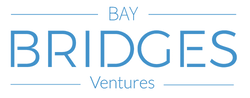
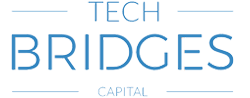
Tech Bridges Ventures

diff --git a/index_pt.html b/index_pt.html
@@ -8,14 +8,14 @@
     <meta name="robots" content="noodp,noydir" />
 
     <!-- Page Title -->
-    <title>Bridges Ventures</title>
+    <title>Tech Bridges Capital</title>
 
-    <meta name="description" content="Bridges Ventures investe em pessoas excepcionais com paixão para resolver problemas complexos e inovar em mercados de alto crescimento. Juntos podemos mudar o mundo." />
+    <meta name="description" content="Tech Bridges Capital investe em pessoas excepcionais com paixão para resolver problemas complexos e inovar em mercados de alto crescimento. Juntos podemos mudar o mundo." />
     <meta name="keywords" content="capital de risco, risco, capital, semente, investimento, inovação, start-up, iberia, espanha, portugal, silicon valley" />
 
     <meta name='twitter:card' content="summary_large_image">
-    <meta name='twitter:title' content="Bridges Ventures">
-    <meta name='twitter:description' content="Bridges Ventures invests in exceptional individuals with passion for solving hard challenges and bringing disruptive innovation to high growth markets. Let's change the world together.">
+    <meta name='twitter:title' content="Tech Bridges Capital">
+    <meta name='twitter:description' content="Tech Bridges Capital invests in exceptional individuals with passion for solving hard challenges and bringing disruptive innovation to high growth markets. Let's change the world together.">
     <meta name='twitter:site' content="@Bridges_VC">
     <meta name='twitter:creator' content="@AgoraEAFI">
     <meta name='twitter:image' content="http://bridges.vc/bridges.jpg">
@@ -326,11 +326,13 @@
                         <use xmlns:xlink="http://www.w3.org/1999/xlink" xlink:href="#facebook"></use>
                     </svg>
                 </a></li>
+                <!--
                 <li><a href="https://www.instagram.com/bridges_vc" target="_blank">
                     <svg>
                         <use xmlns:xlink="http://www.w3.org/1999/xlink" xlink:href="#instagram"></use>
                     </svg>
                 </a></li>
+                -->
             </ul>
         </div>
     </div>
@@ -378,11 +380,13 @@
                     <use xmlns:xlink="http://www.w3.org/1999/xlink" xlink:href="#facebook"></use>
                 </svg>
             </a></li>
+            <!--
             <li><a href="https://www.instagram.com/bridges_vc" target="_blank">
                 <svg>
                     <use xmlns:xlink="http://www.w3.org/1999/xlink" xlink:href="#instagram"></use>
                 </svg>
             </a></li>
+            -->
         </ul>
     </div>
 </nav>
@@ -485,7 +489,7 @@
                         </p>
                         <p>
                             Estamos continuamente à procura da próxima geração de empresas transformadoras,
-                            por isso, se quiser explorar como a Bridges Ventures pode fazer você pisar no acelerador
+                            por isso, se quiser explorar como a Tech Bridges Capital pode fazer você pisar no acelerador
                             com a sua start-up disruptiva <a href="#contact"><b><u>envie-nos uma mensagem aqui</u></b></a>
                         </p>
                     </div>
@@ -507,7 +511,7 @@
                     <h1 class="done">Para Investidores</h1>
                     <div class="done">
                         <p>
-                            Nossa equipe de Bridges Ventures tem <b>acesso privilegiado</b> a um fluxo de oportunidades de investimento em empresas disruptivas de alta qualidade
+                            Nossa equipe de ventures tem <b>acesso privilegiado</b> a um fluxo de oportunidades de investimento em empresas disruptivas de alta qualidade
                         </p>
 
                         <p>
@@ -523,7 +527,7 @@
                         </p>
 
                         <p>
-                            Os Sócios Gerentes da Bridges Ventures possuem ampla experiência real como fundadores
+                            Os Sócios Gerentes da Tech Bridges Capital possuem ampla experiência real como fundadores
                             executivos, investidores e mentores nas indústrias e tecnologias alvo
                         </p>
 
@@ -641,7 +645,7 @@
 
                 <div class="fix-7-12">
                     <div class="ae-1">
-                        <p class="hero opaque">Você quer fazer parte da Bridges Ventures?</p>
+                        <p class="hero opaque">Você quer fazer parte da Tech Bridges Capital?</p>
                         <p class="hero opaque">Você tem o que é necessário para ser um empresário, um investidor ou um mentor?</p>
                     <a href="mailto:info@bridges.vc" class="margin-top-2 button button-93 big blue ae-2">Escreva para info@bridges.vc</a>
                     <!--div class="ae-3 margin-top-2"><p class="phone-93 opaque">or call<a class="bold block opaque" href="tel:+14158129409">+1 (415) 812-9409</a></p></div-->

diff --git a/index.html b/index.html
@@ -8,15 +8,15 @@
     <meta name="robots" content="noodp,noydir" />
 
     <!-- Page Title -->
-    <title>Bridges Ventures</title>
+    <title>Tech Bridges Capital</title>
 
-    <meta name="description" content="Bridges Ventures invests in exceptional individuals with passion for solving hard challenges and bringing disruptive innovation to high growth markets. Let's change the world together." />
+    <meta name="description" content="Tech Bridges Capital invests in exceptional individuals with passion for solving hard challenges and bringing disruptive innovation to high growth markets. Let's change the world together." />
     <meta name="keywords" content="venture capital, venture, capital, seed, investment, innovation, start-up, iberia, spain, portugal, silicon valley" />
     <meta name="google-site-verification" content="Xb1KJGdrnZYzVoiXqIy247uzYOvrLBQTWjikErpovg8" />
 
     <meta name='twitter:card' content="summary_large_image">
-    <meta name='twitter:title' content="Bridges Ventures">
-    <meta name='twitter:description' content="Bridges Ventures invests in exceptional individuals with passion for solving hard challenges and bringing disruptive innovation to high growth markets. Let's change the world together.">
+    <meta name='twitter:title' content="Tech Bridges Capital">
+    <meta name='twitter:description' content="Tech Bridges Capital invests in exceptional individuals with passion for solving hard challenges and bringing disruptive innovation to high growth markets. Let's change the world together.">
     <meta name='twitter:site' content="@Bridges_VC">
     <meta name='twitter:creator' content="@AgoraEAFI">
     <meta name='twitter:image' content="http://bridges.vc/bridges.jpg">
@@ -327,11 +327,13 @@
                         <use xmlns:xlink="http://www.w3.org/1999/xlink" xlink:href="#facebook"></use>
                     </svg>
                 </a></li>
+                <!--
                 <li><a href="https://www.instagram.com/bridges_vc" target="_blank">
                     <svg>
                         <use xmlns:xlink="http://www.w3.org/1999/xlink" xlink:href="#instagram"></use>
                     </svg>
                 </a></li>
+                -->
             </ul>
         </div>
     </div>
@@ -377,11 +379,13 @@
                     <use xmlns:xlink="http://www.w3.org/1999/xlink" xlink:href="#facebook"></use>
                 </svg>
             </a></li>
+            <!--
             <li><a href="https://www.instagram.com/bridges_vc" target="_blank">
                 <svg>
                     <use xmlns:xlink="http://www.w3.org/1999/xlink" xlink:href="#instagram"></use>
                 </svg>
             </a></li>
+            -->
         </ul>
     </div>
 </nav>
@@ -485,7 +489,7 @@
                             scientific technologies based on Artificial Intelligence
                         </p>
                         <p>
-                            We are continuously in search of the next game-changers, so if you want to explore how Bridges Ventures
+                            We are continuously in search of the next game-changers, so if you want to explore how Tech Bridges Capital
                             can super-charge you disruptive start-up <a
                                 href="#contact"><b><u>just send us a note here</u></b></a>
                         </p>
@@ -523,7 +527,7 @@
                         </p>
 
                         <p>
-                            The General Partners of Bridges Ventures have wide hands-on experience as founders, executives, investors and
+                            The General Partners of Tech Bridges Capital have wide hands-on experience as founders, executives, investors and
                             advisors in the target technology domains
                         </p>
 
@@ -642,7 +646,7 @@
 
                 <div class="fix-7-12">
                     <div class="ae-1">
-                        <p class="hero opaque">Do you want to be part of Bridges Ventures?</p>
+                        <p class="hero opaque">Do you want to be part of Tech Bridges Capital?</p>
                         <p class="hero opaque">Do you have what it takes to be either an entrepreneur, an investor or an advisor?</p>
                     <a href="mailto:info@bridges.vc" class="margin-top-2 button button-93 big blue ae-2">Connect
                         with us at info@bridges.vc</a>

diff --git a/index_es.html b/index_es.html
@@ -8,14 +8,14 @@
     <meta name="robots" content="noodp,noydir" />
 
     <!-- Page Title -->
-    <title>Bridges Ventures</title>
+    <title>Tech Bridges Capital</title>
 
-    <meta name="description" content="Bridges Ventures invierte en personas excepcionales con pasión por resolver problemas complejos e innovar en mercados de gran crecimiento. Juntos podemos cambiar el mundo." />
+    <meta name="description" content="Tech Bridges Capital invierte en personas excepcionales con pasión por resolver problemas complejos e innovar en mercados de gran crecimiento. Juntos podemos cambiar el mundo." />
     <meta name="keywords" content="capital riesgo, riesgo, capital, semilla, inversión, innovación, start-up, iberia, españa, portugal, silicon valley" />
 
     <meta name='twitter:card' content="summary_large_image">
-    <meta name='twitter:title' content="Bridges Ventures">
-    <meta name='twitter:description' content="Bridges Ventures invierte en personas excepcionales con pasión por resolver problemas complejos e innovar en mercados de gran crecimiento. Juntos podemos cambiar el mundo.">
+    <meta name='twitter:title' content="Tech Bridges Capital">
+    <meta name='twitter:description' content="Tech Bridges Capital invierte en personas excepcionales con pasión por resolver problemas complejos e innovar en mercados de gran crecimiento. Juntos podemos cambiar el mundo.">
     <meta name='twitter:site' content="@Bridges_VC">
     <meta name='twitter:creator' content="@AgoraEAFI">
     <meta name='twitter:image' content="http://bridges.vc/bridges.jpg">
@@ -326,11 +326,13 @@
                         <use xmlns:xlink="http://www.w3.org/1999/xlink" xlink:href="#facebook"></use>
                     </svg>
                 </a></li>
+                <!--
                 <li><a href="https://www.instagram.com/bridges_vc" target="_blank">
                     <svg>
                         <use xmlns:xlink="http://www.w3.org/1999/xlink" xlink:href="#instagram"></use>
                     </svg>
                 </a></li>
+                -->
             </ul>
         </div>
     </div>
@@ -378,11 +380,13 @@
                     <use xmlns:xlink="http://www.w3.org/1999/xlink" xlink:href="#facebook"></use>
                 </svg>
             </a></li>
+            <!--
             <li><a href="https://www.instagram.com/bridges_vc" target="_blank">
                 <svg>
                     <use xmlns:xlink="http://www.w3.org/1999/xlink" xlink:href="#instagram"></use>
                 </svg>
             </a></li>
+            -->
         </ul>
     </div>
 </nav>
@@ -485,7 +489,7 @@
                         </p>
                         <p>
                             Estamos continuamente a la búsqueda de la siguiente generación de empresas rompedoras,
-                            así que si quieres explorar cómo Bridges Ventures puede hacer que pises el acelerador a fondo con tu start-up disruptiva <a
+                            así que si quieres explorar cómo Tech Bridges Capital puede hacer que pises el acelerador a fondo con tu start-up disruptiva <a
                                 href="#contact"><b><u>envíanos un nota aquí</u></b></a>
                         </p>
                     </div>
@@ -521,7 +525,7 @@
                         </p>
 
                         <p>
-                            Los Socios Gestores de Bridges Ventures tienen una amplia experiencia real como fundadores, ejecutivos, inversores y
+                            Los Socios Gestores de Tech Bridges Capital tienen una amplia experiencia real como fundadores, ejecutivos, inversores y
                             mentores en las industrias y tecnologías objetivo
                         </p>
 
@@ -640,7 +644,7 @@
 
                 <div class="fix-7-12">
                     <div class="ae-1">
-                        <p class="hero opaque">¿Quieres formar parte de Bridges Ventures?</p>
+                        <p class="hero opaque">¿Quieres formar parte de Tech Bridges Capital?</p>
                         <p class="hero opaque">¿Tienes lo que hace falta para ser un emprendedor, un inversor o un mentor?</p>
                     <a href="mailto:info@bridges.vc" class="margin-top-2 button button-93 big blue ae-2">Escríbenos
                         a info@bridges.vc</a>
